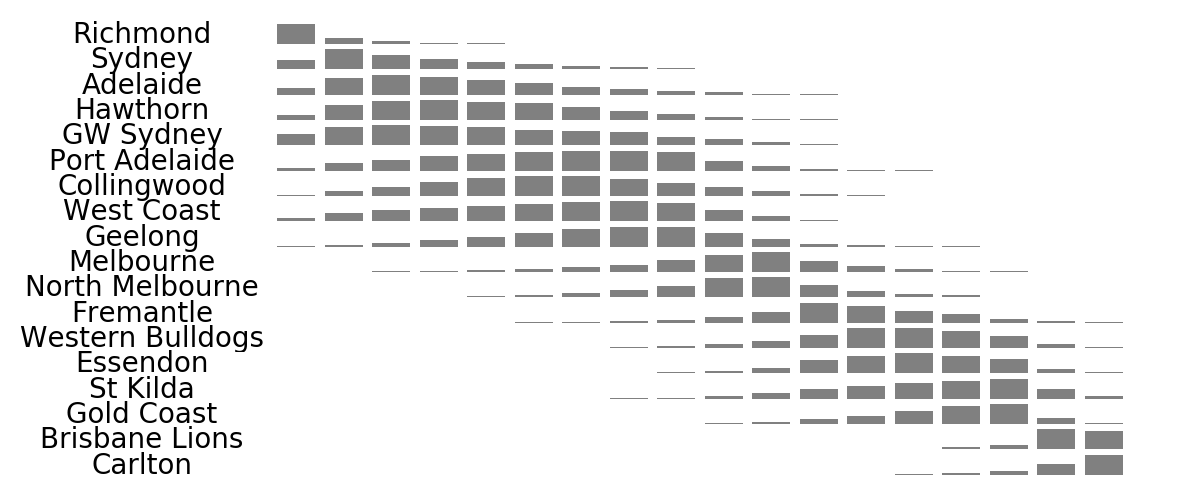
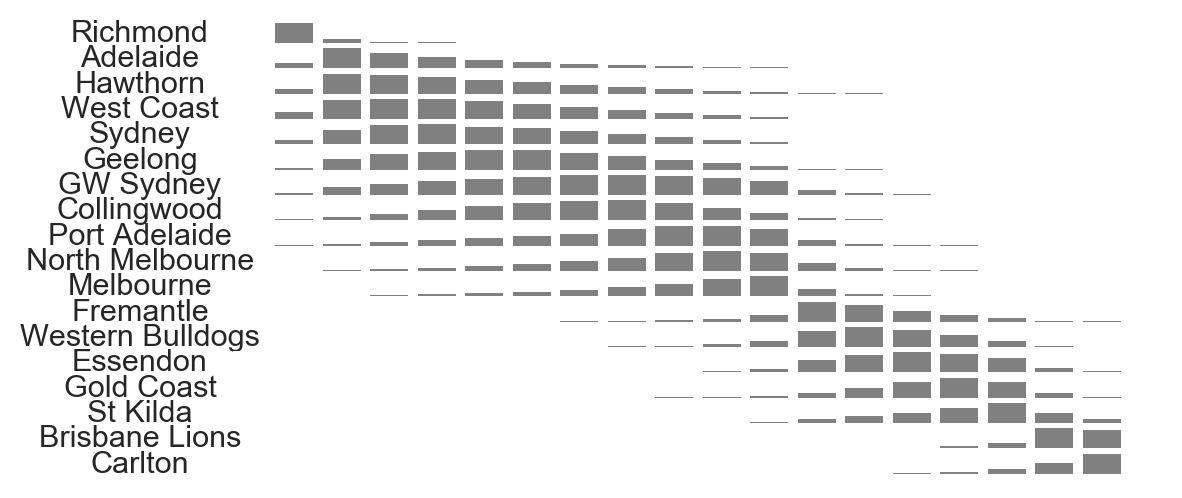
update

diff --git a/seasonsimulation.md b/seasonsimulation.md
@@ -1,9 +1,9 @@
 ---
 layout: page
 title: AFL Season Simulation
-subtitle: Updated Post Round 6
+subtitle: Updated Post Round 7
 ---
-<table border="1" class="dataframe">   <thead>     <tr style="text-align: center;">       <th>Team</th>       <th>Average Wins</th>       <th>Average Position</th>       <th>Median Position</th>       <th>Standard Deviation</th>       <th>High</th>       <th>Low</th>       <th>Finals Prob</th>       <th>Top 4 Prob</th>       <th>Minor Premier Prob</th>       <th>Bottom 4 Prob</th>       <th>Wooden Spoon Prob</th>       <th>Premiership Prob</th>     </tr>   </thead>   <tbody>     <tr>       <td>Richmond</td>       <td>17.0629</td>       <td>1.7075</td>       <td>1</td>       <td>1.27167</td>       <td>1</td>       <td>11</td>       <td>99.81</td>       <td>95.18</td>       <td>64.89</td>       <td>0</td>       <td>0</td>       <td>48.9</td>     </tr>     <tr>       <td>Sydney</td>       <td>15.1821</td>       <td>3.6239</td>       <td>3</td>       <td>2.17248</td>       <td>1</td>       <td>14</td>       <td>96.29</td>       <td>71.51</td>       <td>12.18</td>       <td>0</td>       <td>0</td>       <td>10.96</td>     </tr>     <tr>       <td>Adelaide</td>       <td>14.5709</td>       <td>4.5156</td>       <td>4</td>       <td>2.34481</td>       <td>1</td>       <td>15</td>       <td>93.13</td>       <td>55.85</td>       <td>6.01</td>       <td>0.01</td>       <td>0</td>       <td>9.08</td>     </tr>     <tr>       <td>Hawthorn</td>       <td>14.2635</td>       <td>5.0345</td>       <td>5</td>       <td>2.4088</td>       <td>1</td>       <td>15</td>       <td>90.74</td>       <td>46.08</td>       <td>3.83</td>       <td>0.01</td>       <td>0</td>       <td>8.27</td>     </tr>     <tr>       <td>GW Sydney</td>       <td>14.3522</td>       <td>5.0767</td>       <td>5</td>       <td>2.69937</td>       <td>1</td>       <td>15</td>       <td>87.75</td>       <td>46.62</td>       <td>7.41</td>       <td>0.01</td>       <td>0</td>       <td>8.84</td>     </tr>     <tr>       <td>Port Adelaide</td>       <td>13.45</td>       <td>6.5514</td>       <td>7</td>       <td>2.60487</td>       <td>1</td>       <td>16</td>       <td>75.01</td>       <td>24.01</td>       <td>1.72</td>       <td>0.12</td>       <td>0</td>       <td>4.54</td>     </tr>     <tr>       <td>Collingwood</td>       <td>13.2476</td>       <td>6.5518</td>       <td>6</td>       <td>2.48192</td>       <td>1</td>       <td>16</td>       <td>77.64</td>       <td>21.85</td>       <td>1.03</td>       <td>0.06</td>       <td>0</td>       <td>4.37</td>     </tr>     <tr>       <td>West Coast</td>       <td>13.5557</td>       <td>6.5548</td>       <td>7</td>       <td>2.67671</td>       <td>1</td>       <td>16</td>       <td>73.91</td>       <td>24.46</td>       <td>2.41</td>       <td>0.06</td>       <td>0</td>       <td>2.62</td>     </tr>     <tr>       <td>Geelong</td>       <td>12.4895</td>       <td>7.6911</td>       <td>8</td>       <td>2.43472</td>       <td>1</td>       <td>17</td>       <td>61.31</td>       <td>10.47</td>       <td>0.46</td>       <td>0.35</td>       <td>0</td>       <td>1.95</td>     </tr>     <tr>       <td>Melbourne</td>       <td>11.0504</td>       <td>10.0485</td>       <td>10</td>       <td>2.34302</td>       <td>1</td>       <td>18</td>       <td>21.15</td>       <td>2.37</td>       <td>0.02</td>       <td>2.27</td>       <td>0.01</td>       <td>0.27</td>     </tr>     <tr>       <td>North Melbourne</td>       <td>10.6652</td>       <td>10.3533</td>       <td>10</td>       <td>2.25479</td>       <td>1</td>       <td>18</td>       <td>17.4</td>       <td>1.46</td>       <td>0.04</td>       <td>3.36</td>       <td>0.01</td>       <td>0.19</td>     </tr>     <tr>       <td>Fremantle</td>       <td>8.8811</td>       <td>12.582</td>       <td>13</td>       <td>1.99004</td>       <td>3</td>       <td>18</td>       <td>2.89</td>       <td>0.08</td>       <td>0</td>       <td>16.86</td>       <td>0.32</td>       <td>0</td>     </tr>     <tr>       <td>Western Bulldogs</td>       <td>8.2238</td>       <td>13.5377</td>       <td>14</td>       <td>1.96244</td>       <td>3</td>       <td>18</td>       <td>1.34</td>       <td>0.02</td>       <td>0</td>       <td>32.96</td>       <td>0.63</td>       <td>0.01</td>     </tr>     <tr>       <td>Essendon</td>       <td>7.8447</td>       <td>13.8108</td>       <td>14</td>       <td>1.88085</td>       <td>4</td>       <td>18</td>       <td>0.71</td>       <td>0.02</td>       <td>0</td>       <td>37.78</td>       <td>0.96</td>       <td>0</td>     </tr>     <tr>       <td>St Kilda</td>       <td>7.368</td>       <td>14.3215</td>       <td>15</td>       <td>2.05926</td>       <td>3</td>       <td>18</td>       <td>0.66</td>       <td>0.02</td>       <td>0</td>       <td>51.25</td>       <td>3.26</td>       <td>0</td>     </tr>     <tr>       <td>Gold Coast</td>       <td>7.2727</td>       <td>14.6875</td>       <td>15</td>       <td>1.67995</td>       <td>5</td>       <td>18</td>       <td>0.26</td>       <td>0</td>       <td>0</td>       <td>60.9</td>       <td>1.65</td>       <td>0</td>     </tr>     <tr>       <td>Brisbane Lions</td>       <td>4.2443</td>       <td>17.1086</td>       <td>17</td>       <td>1.02088</td>       <td>10</td>       <td>18</td>       <td>0</td>       <td>0</td>       <td>0</td>       <td>97.13</td>       <td>39.8</td>       <td>0</td>     </tr>     <tr>       <td>Carlton</td>       <td>4.2754</td>       <td>17.2428</td>       <td>18</td>       <td>1.07854</td>       <td>10</td>       <td>18</td>       <td>0</td>       <td>0</td>       <td>0</td>       <td>96.87</td>       <td>53.36</td>       <td>0</td>     </tr>   </tbody> </table>
+<table border="1" class="dataframe">   <thead>     <tr style="text-align: center;">       <th>Team</th>       <th>Average Wins</th>       <th>Average Position</th>       <th>Median Position</th>       <th>Standard Deviation</th>       <th>High</th>       <th>Low</th>       <th>Finals Prob</th>       <th>Top 4 Prob</th>       <th>Minor Premier Prob</th>       <th>Bottom 4 Prob</th>       <th>Wooden Spoon Prob</th>       <th>Premiership Prob</th>     </tr>   </thead>   <tbody>     <tr>       <td>Richmond</td>       <td>17.5228</td>       <td>1.4227</td>       <td>1</td>       <td>0.996506</td>       <td>1</td>       <td>11</td>       <td>99.85</td>       <td>97.63</td>       <td>76.61</td>       <td>0</td>       <td>0</td>       <td>56.9</td>     </tr>     <tr>       <td>Adelaide</td>       <td>14.791</td>       <td>4.0694</td>       <td>3</td>       <td>2.34606</td>       <td>1</td>       <td>15</td>       <td>94.03</td>       <td>65.35</td>       <td>6.55</td>       <td>0.01</td>       <td>0</td>       <td>10.32</td>     </tr>     <tr>       <td>Hawthorn</td>       <td>14.5619</td>       <td>4.6389</td>       <td>4</td>       <td>2.46672</td>       <td>1</td>       <td>14</td>       <td>91.23</td>       <td>54.77</td>       <td>4.42</td>       <td>0</td>       <td>0</td>       <td>8.6</td>     </tr>     <tr>       <td>West Coast</td>       <td>14.6388</td>       <td>4.8869</td>       <td>5</td>       <td>2.49474</td>       <td>1</td>       <td>14</td>       <td>90.36</td>       <td>49.35</td>       <td>5.23</td>       <td>0</td>       <td>0</td>       <td>4.62</td>     </tr>     <tr>       <td>Sydney</td>       <td>14.2474</td>       <td>5.2023</td>       <td>5</td>       <td>2.50023</td>       <td>1</td>       <td>14</td>       <td>88.58</td>       <td>44.82</td>       <td>3.08</td>       <td>0</td>       <td>0</td>       <td>5.36</td>     </tr>     <tr>       <td>Geelong</td>       <td>13.5965</td>       <td>5.8194</td>       <td>6</td>       <td>2.52269</td>       <td>1</td>       <td>14</td>       <td>83.93</td>       <td>33.3</td>       <td>1.55</td>       <td>0</td>       <td>0</td>       <td>6.48</td>     </tr>     <tr>       <td>GW Sydney</td>       <td>13.0144</td>       <td>7.1444</td>       <td>7</td>       <td>2.87262</td>       <td>1</td>       <td>16</td>       <td>65.01</td>       <td>20.63</td>       <td>1.48</td>       <td>0.16</td>       <td>0</td>       <td>2.71</td>     </tr>     <tr>       <td>Collingwood</td>       <td>13.1018</td>       <td>7.145</td>       <td>7</td>       <td>2.4837</td>       <td>1</td>       <td>16</td>       <td>68.85</td>       <td>15.5</td>       <td>0.64</td>       <td>0.04</td>       <td>0</td>       <td>2.16</td>     </tr>     <tr>       <td>Port Adelaide</td>       <td>12.381</td>       <td>8.3932</td>       <td>9</td>       <td>2.54884</td>       <td>1</td>       <td>17</td>       <td>46.17</td>       <td>8.95</td>       <td>0.24</td>       <td>0.34</td>       <td>0</td>       <td>1.55</td>     </tr>     <tr>       <td>North Melbourne</td>       <td>11.8173</td>       <td>8.9956</td>       <td>9</td>       <td>2.40354</td>       <td>1</td>       <td>17</td>       <td>36.61</td>       <td>4.84</td>       <td>0.15</td>       <td>0.69</td>       <td>0</td>       <td>0.79</td>     </tr>     <tr>       <td>Melbourne</td>       <td>11.8244</td>       <td>9.2751</td>       <td>10</td>       <td>2.40425</td>       <td>1</td>       <td>17</td>       <td>31.54</td>       <td>4.74</td>       <td>0.05</td>       <td>0.54</td>       <td>0</td>       <td>0.51</td>     </tr>     <tr>       <td>Fremantle</td>       <td>8.5823</td>       <td>12.8497</td>       <td>13</td>       <td>1.75662</td>       <td>3</td>       <td>18</td>       <td>1.49</td>       <td>0.03</td>       <td>0</td>       <td>17.06</td>       <td>0.32</td>       <td>0</td>     </tr>     <tr>       <td>Western Bulldogs</td>       <td>8.5121</td>       <td>13.1774</td>       <td>13</td>       <td>1.82963</td>       <td>3</td>       <td>18</td>       <td>1.63</td>       <td>0.07</td>       <td>0</td>       <td>22.91</td>       <td>0.2</td>       <td>0</td>     </tr>     <tr>       <td>Essendon</td>       <td>7.5233</td>       <td>14.0256</td>       <td>14</td>       <td>1.71393</td>       <td>5</td>       <td>18</td>       <td>0.36</td>       <td>0</td>       <td>0</td>       <td>40.49</td>       <td>1.24</td>       <td>0</td>     </tr>     <tr>       <td>Gold Coast</td>       <td>7.3105</td>       <td>14.5394</td>       <td>15</td>       <td>1.58122</td>       <td>6</td>       <td>18</td>       <td>0.21</td>       <td>0</td>       <td>0</td>       <td>55.75</td>       <td>1.12</td>       <td>0</td>     </tr>     <tr>       <td>St Kilda</td>       <td>6.5479</td>       <td>15.0666</td>       <td>15</td>       <td>1.73343</td>       <td>4</td>       <td>18</td>       <td>0.15</td>       <td>0.02</td>       <td>0</td>       <td>67.12</td>       <td>5.29</td>       <td>0</td>     </tr>     <tr>       <td>Brisbane Lions</td>       <td>4.0011</td>       <td>17.1054</td>       <td>17</td>       <td>0.975239</td>       <td>9</td>       <td>18</td>       <td>0</td>       <td>0</td>       <td>0</td>       <td>97.57</td>       <td>38.75</td>       <td>0</td>     </tr>     <tr>       <td>Carlton</td>       <td>4.0255</td>       <td>17.243</td>       <td>18</td>       <td>1.04267</td>       <td>11</td>       <td>18</td>       <td>0</td>       <td>0</td>       <td>0</td>       <td>97.32</td>       <td>53.08</td>       <td>0</td>     </tr>   </tbody> </table>
 <p>Based on 10,000 simulations.</p>
 
 <img src="/img/histogram.png"/>
